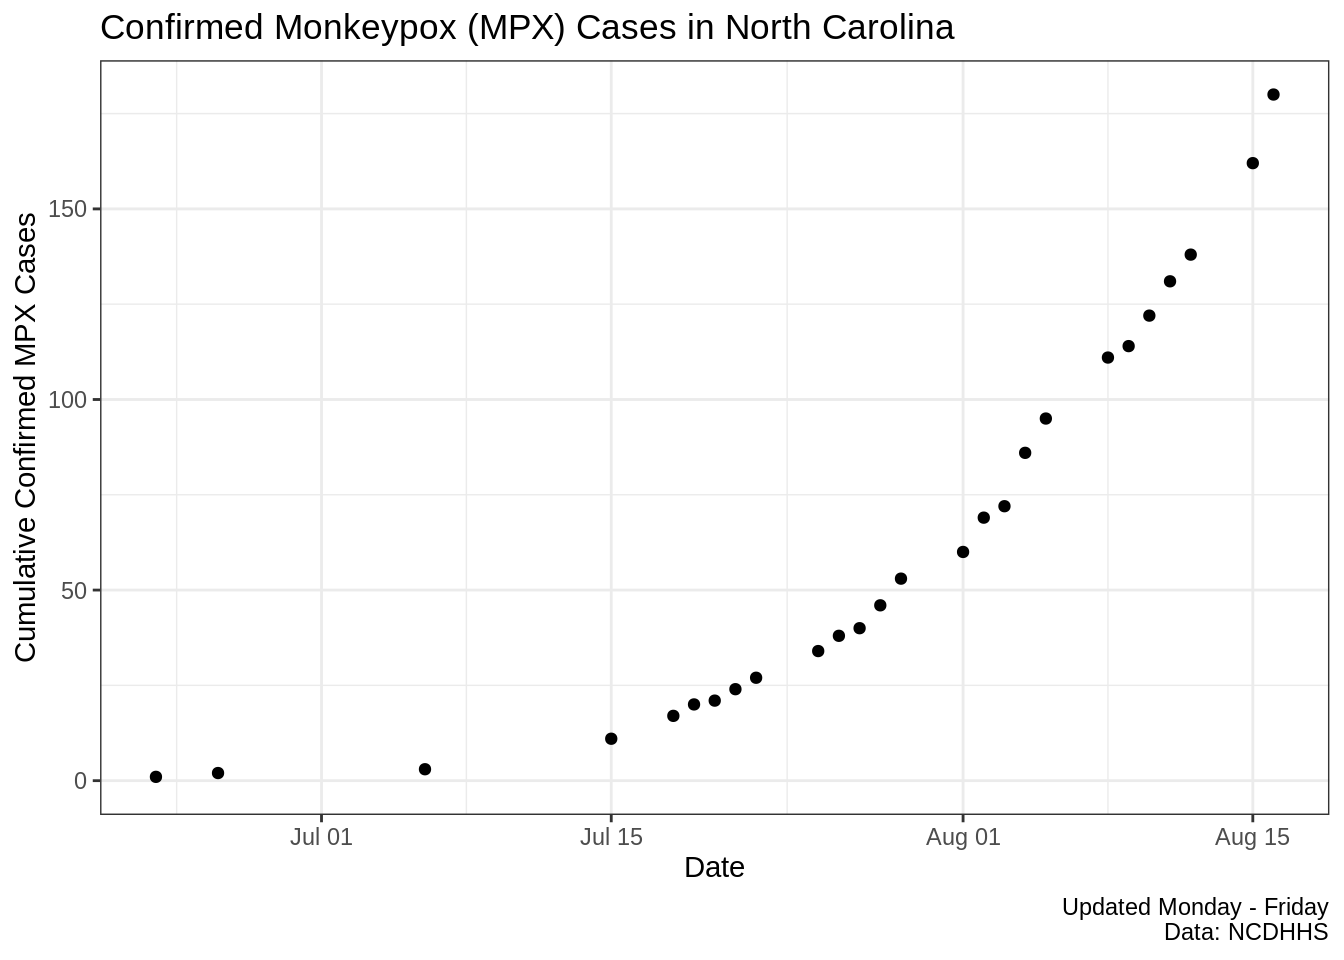
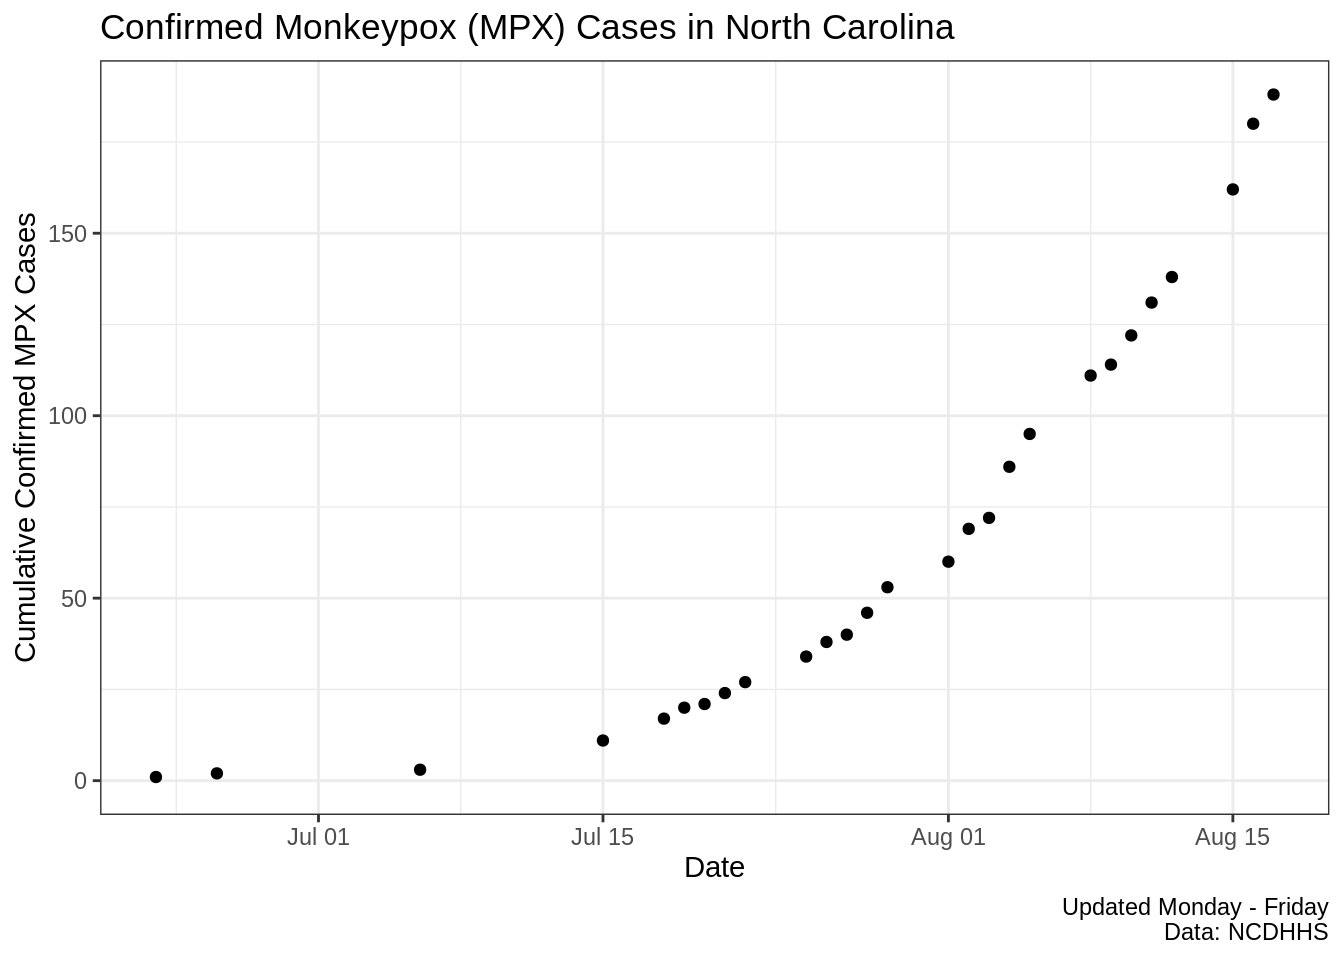
Update the latest data

diff --git a/docs/index.html b/docs/index.html
@@ -129,7 +129,7 @@ ul.task-list{list-style: none;}
 <div class="cell">
 
 </div>
-<p>These data are current as of 16 August, 2022. Current case incidence suggests a doubling time of 8.7 (95% CI, 8.3-9.2) days.</p>
+<p>These data are current as of 17 August, 2022. Current case incidence suggests a doubling time of 8.9 (95% CI, 8.4-9.4) days.</p>
 <div class="cell">
 <div class="cell-output-display">
 <p><img src="index_files/figure-html/unnamed-chunk-2-1.png" class="img-fluid" width="672"></p>
